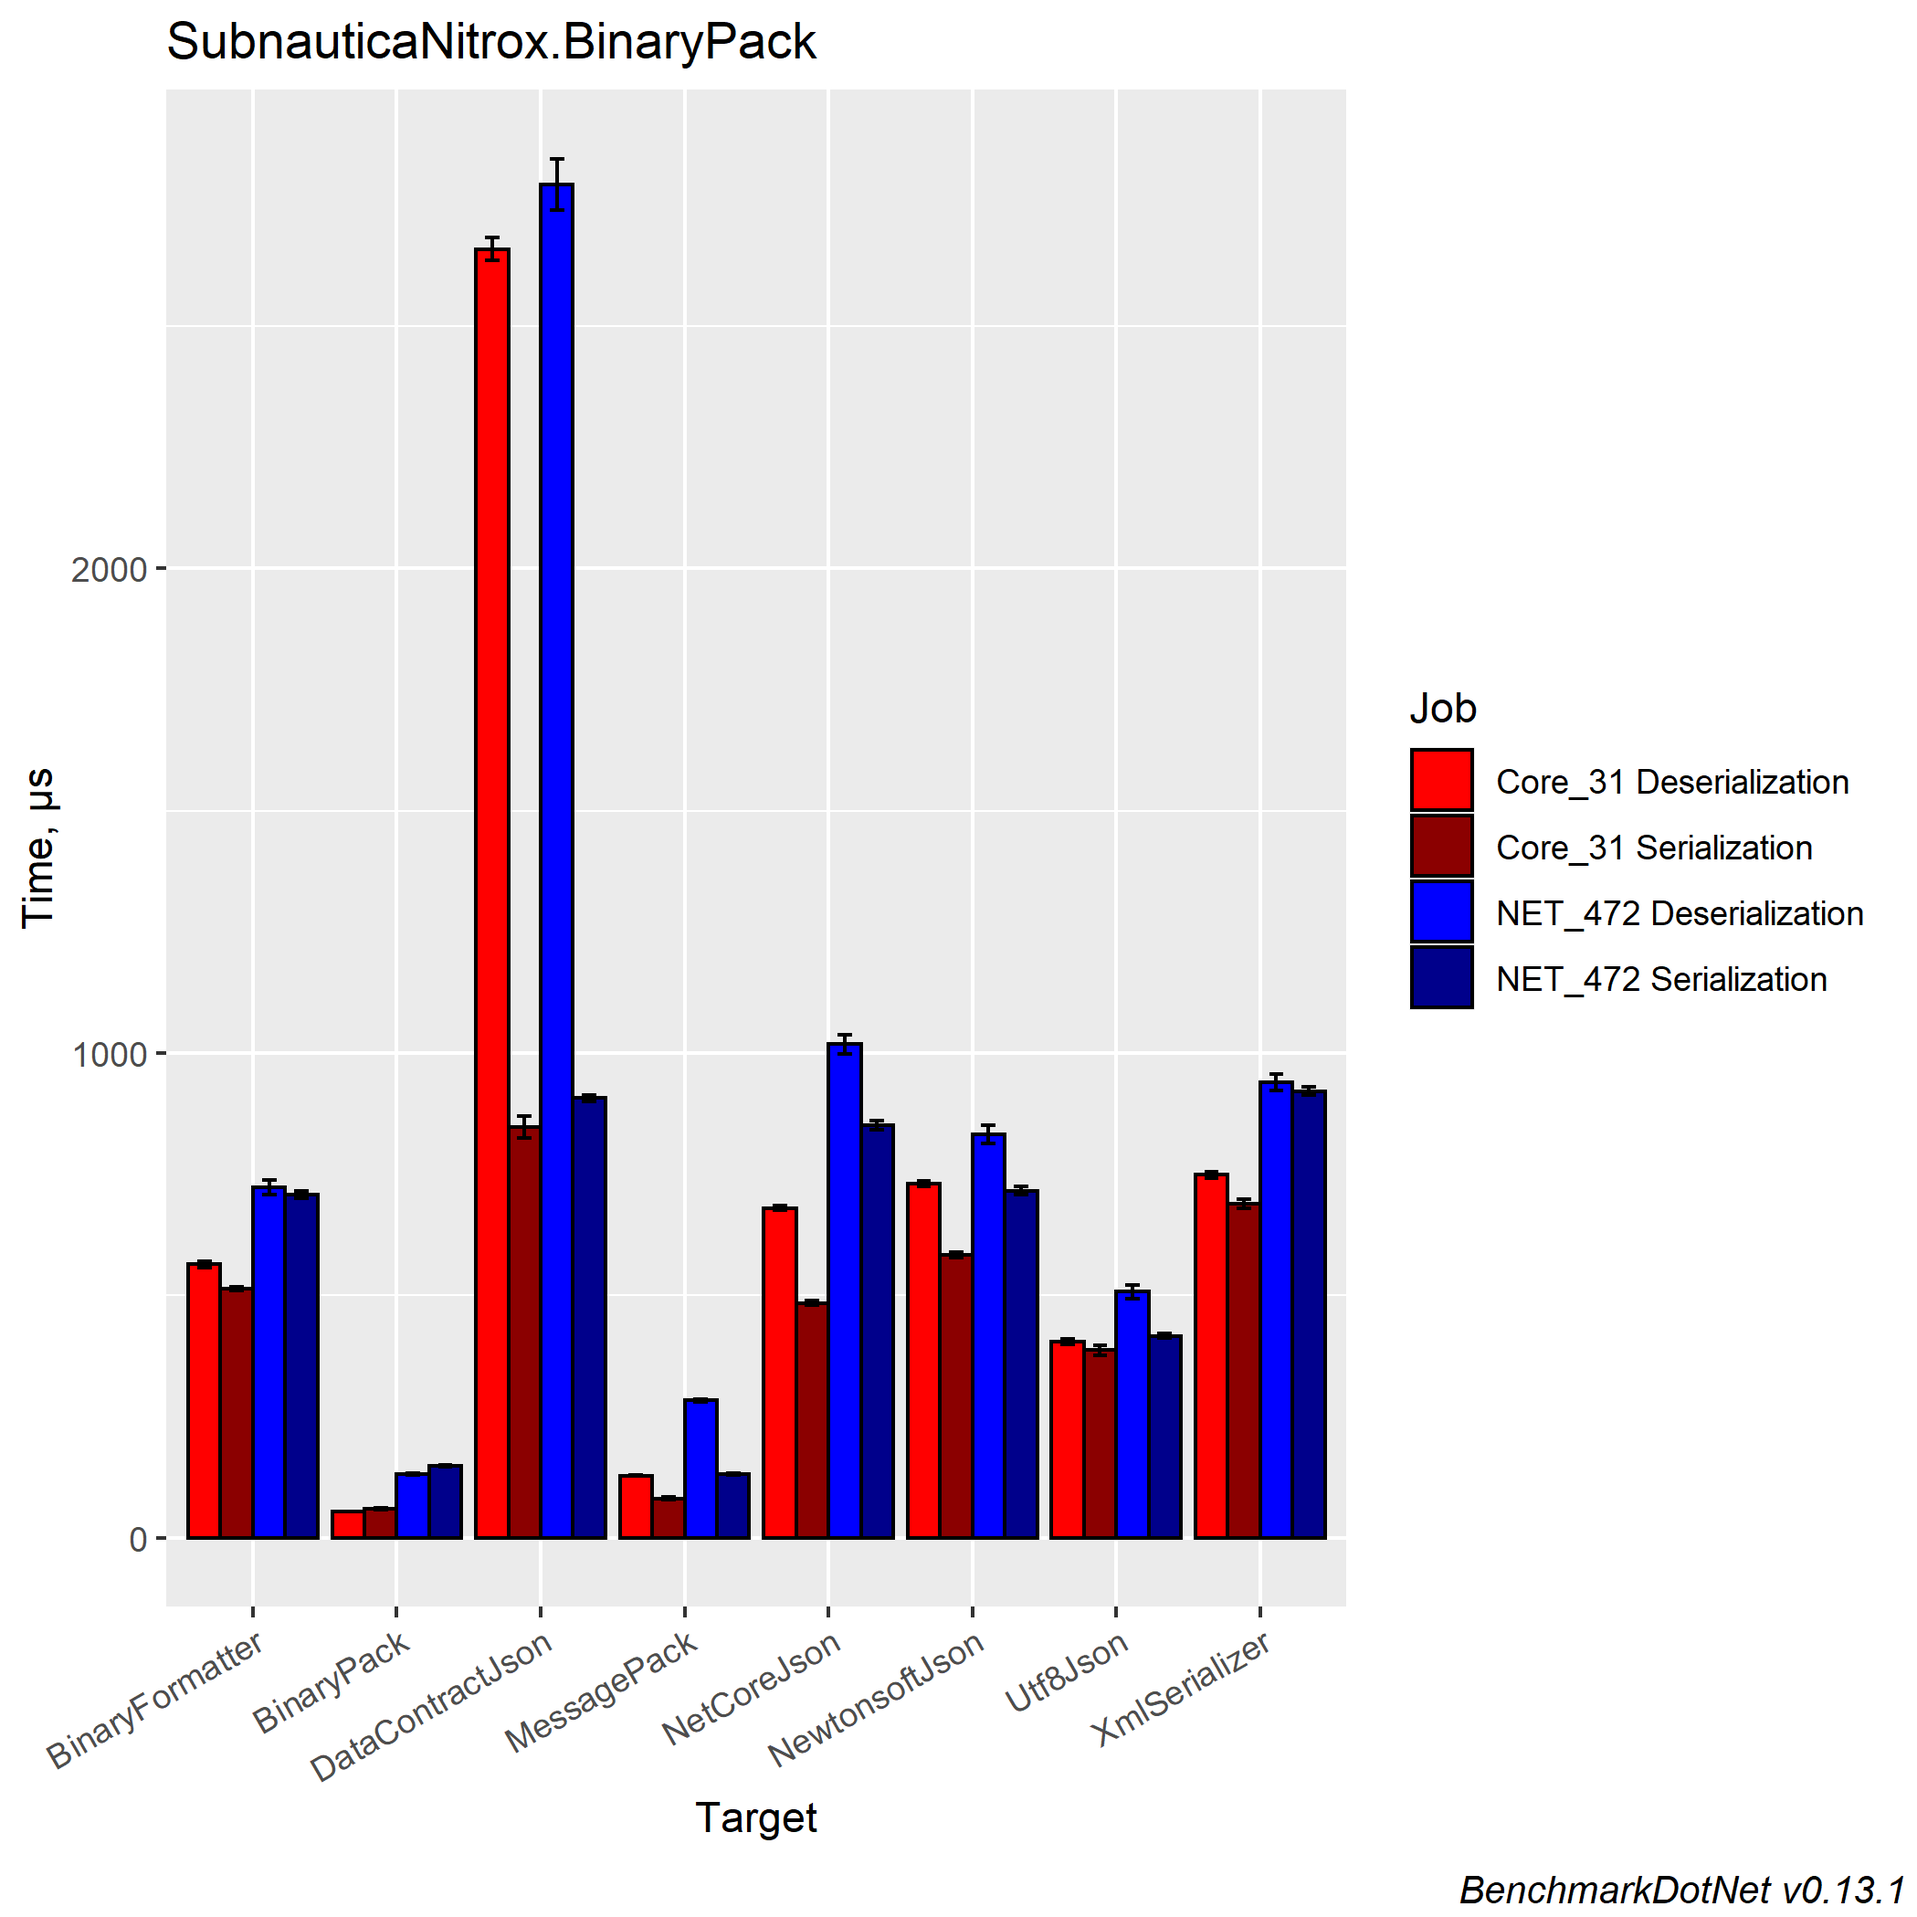
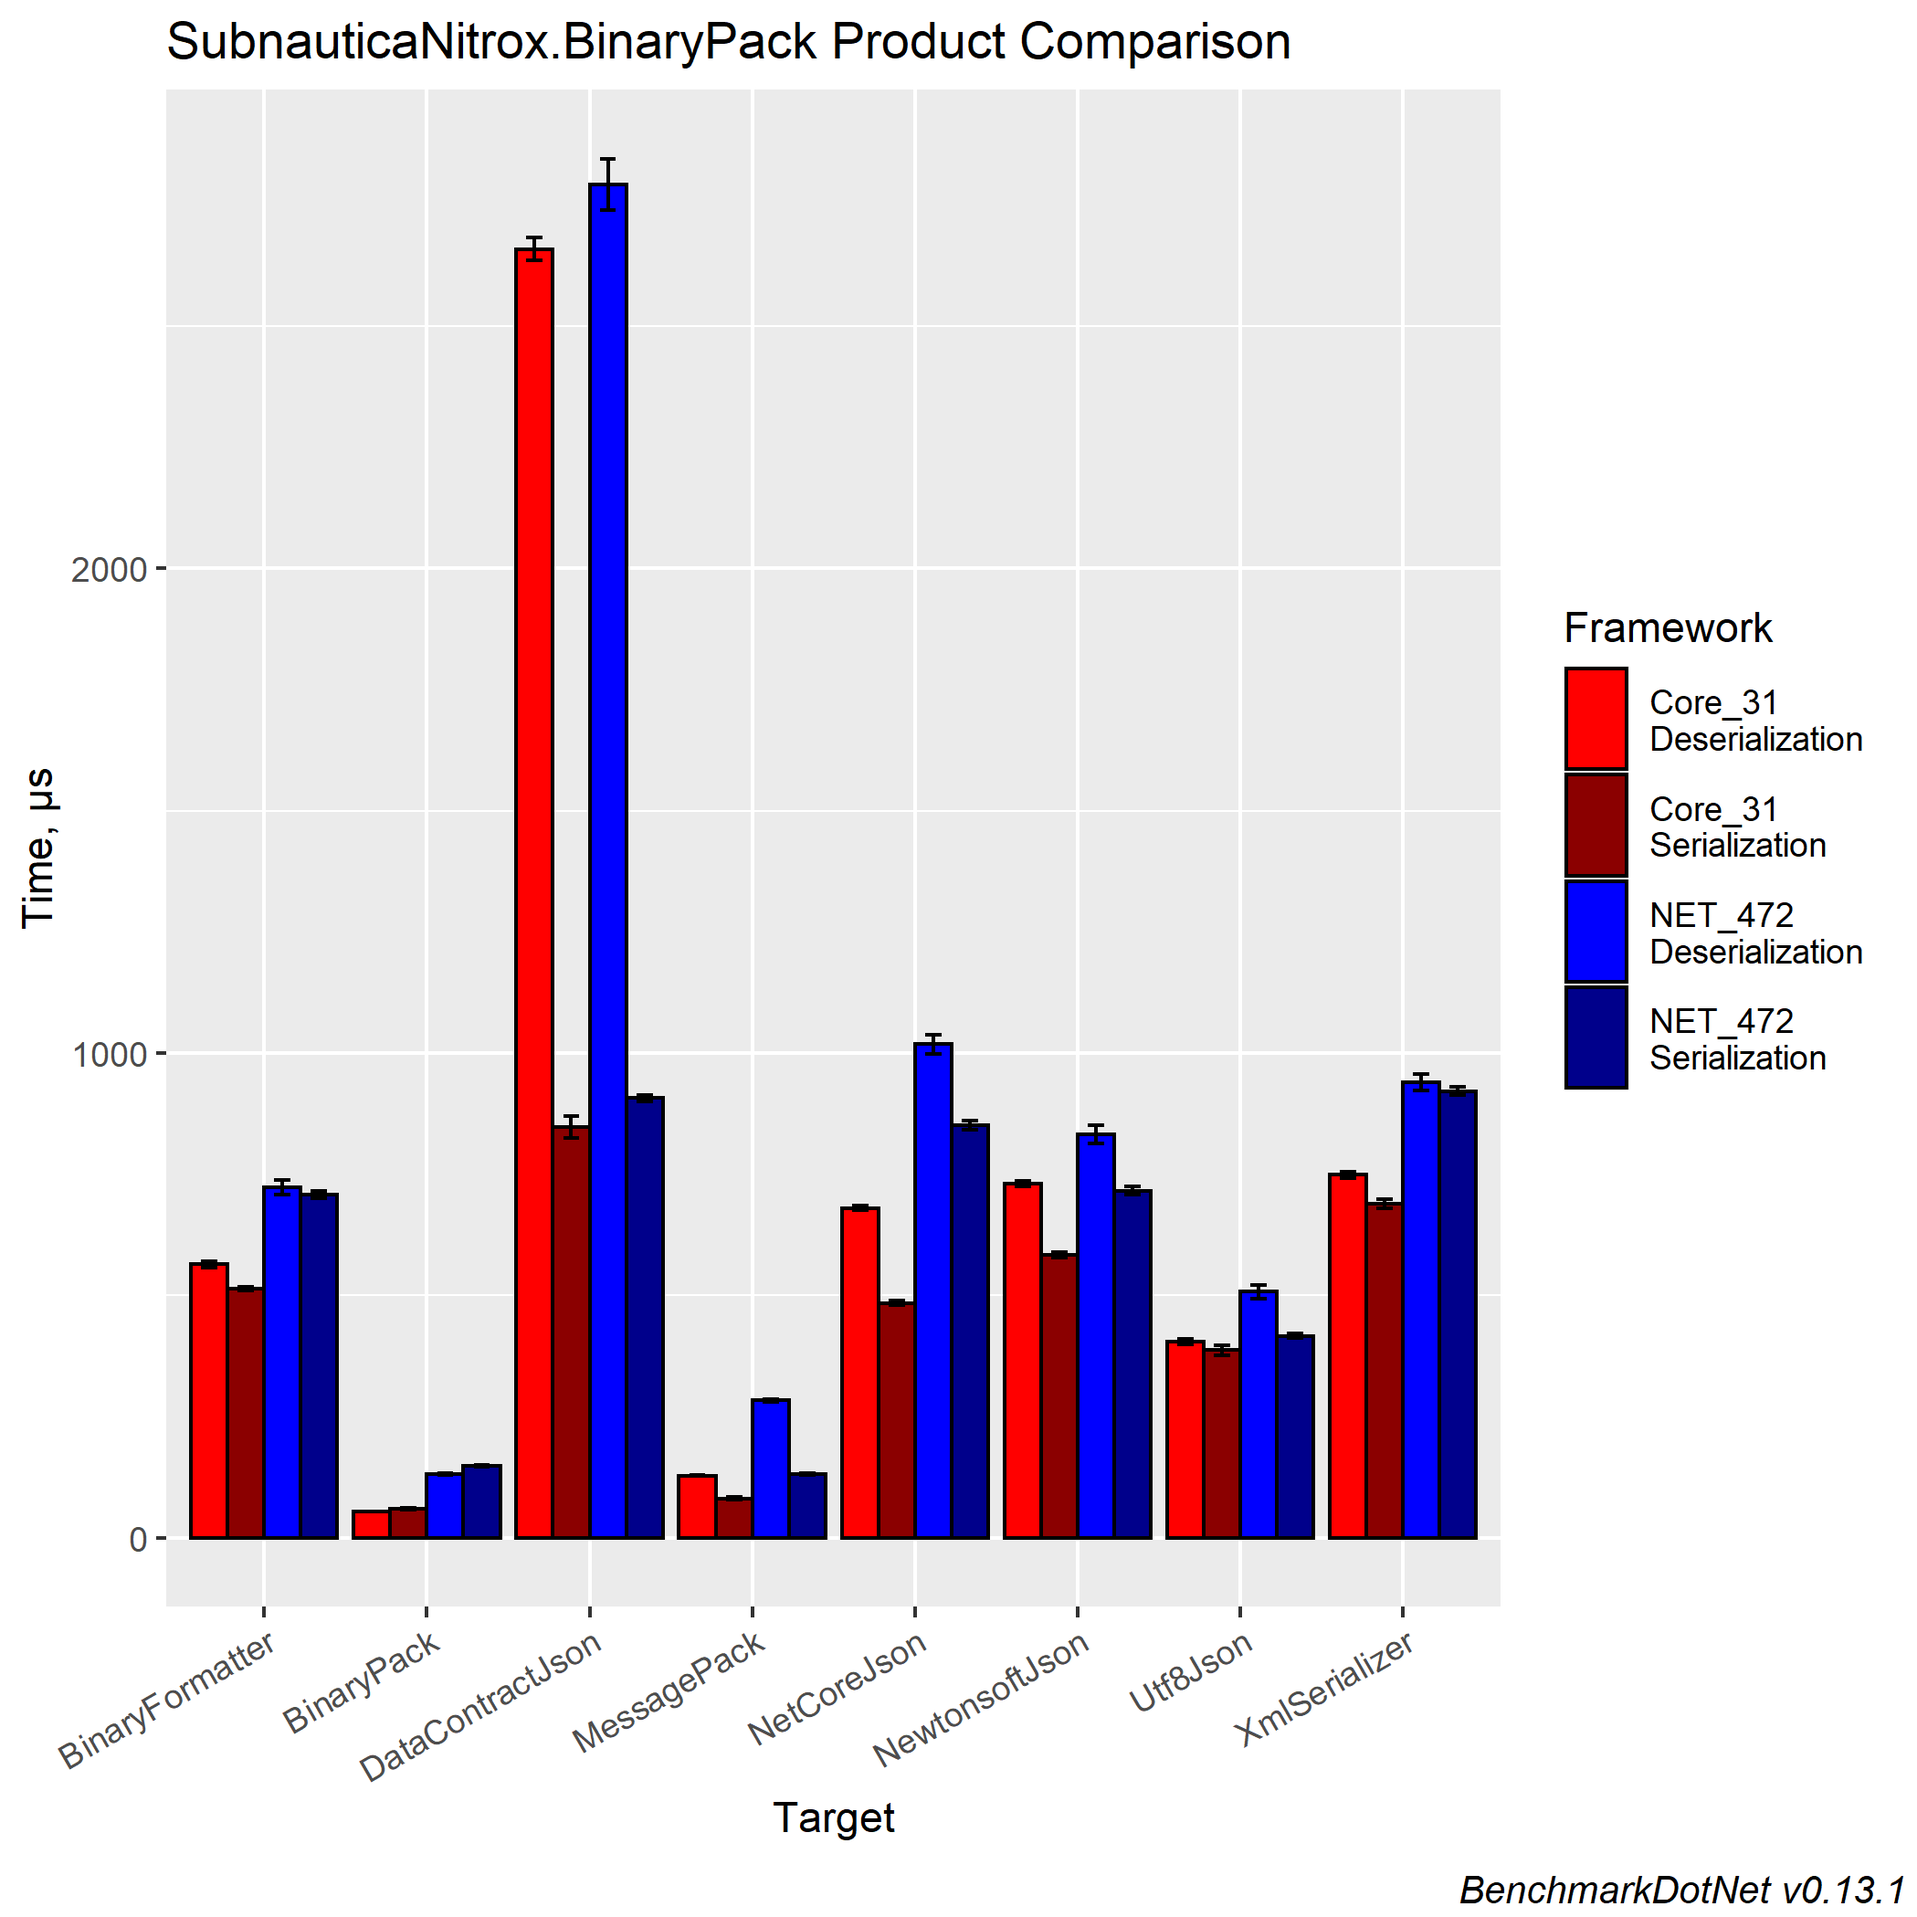
Redesign plot style to give more room for bars

diff --git a/README.md b/README.md
@@ -34,7 +34,7 @@ Here are benchmarks executed with the benchmark sample ([JsonResponseModel](http
 
 <p float="center">
   <img src="BenchmarkResults/BinaryPack.Benchmark-barplot.png" width="800" />
-  <img src="BenchmarkResults/BinaryPack.Benchmark-binarypackplot.png" width="400" /> 
+  <img src="BenchmarkResults/BinaryPack.Benchmark-binarypackplot.png" width="800" /> 
 </p>
 
 # Requirements
